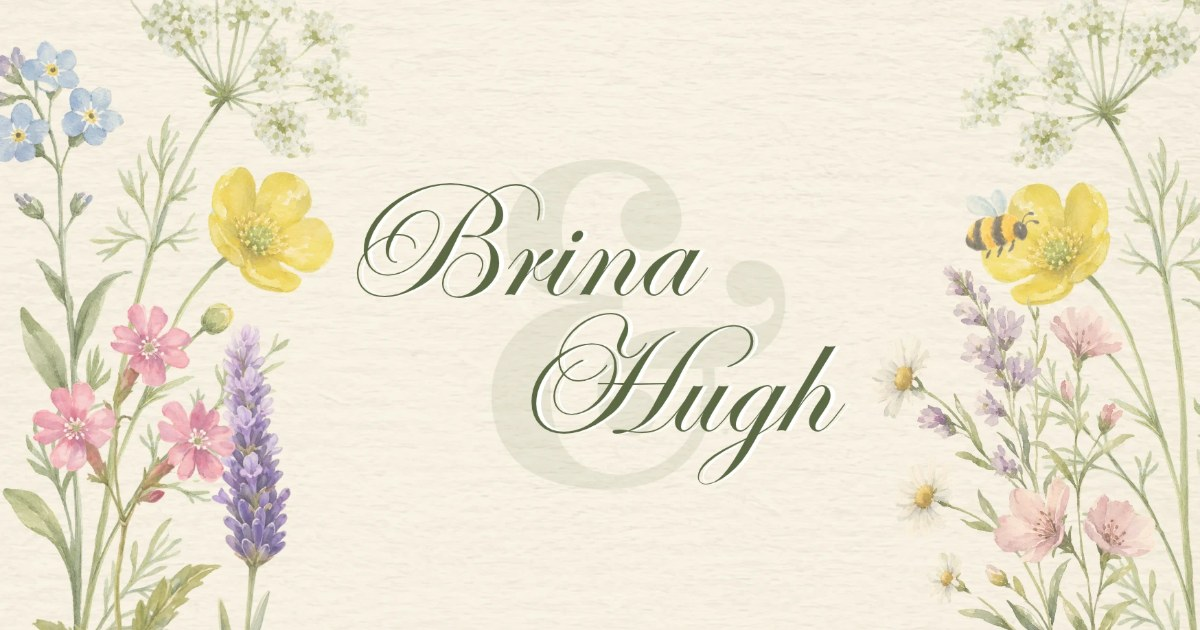
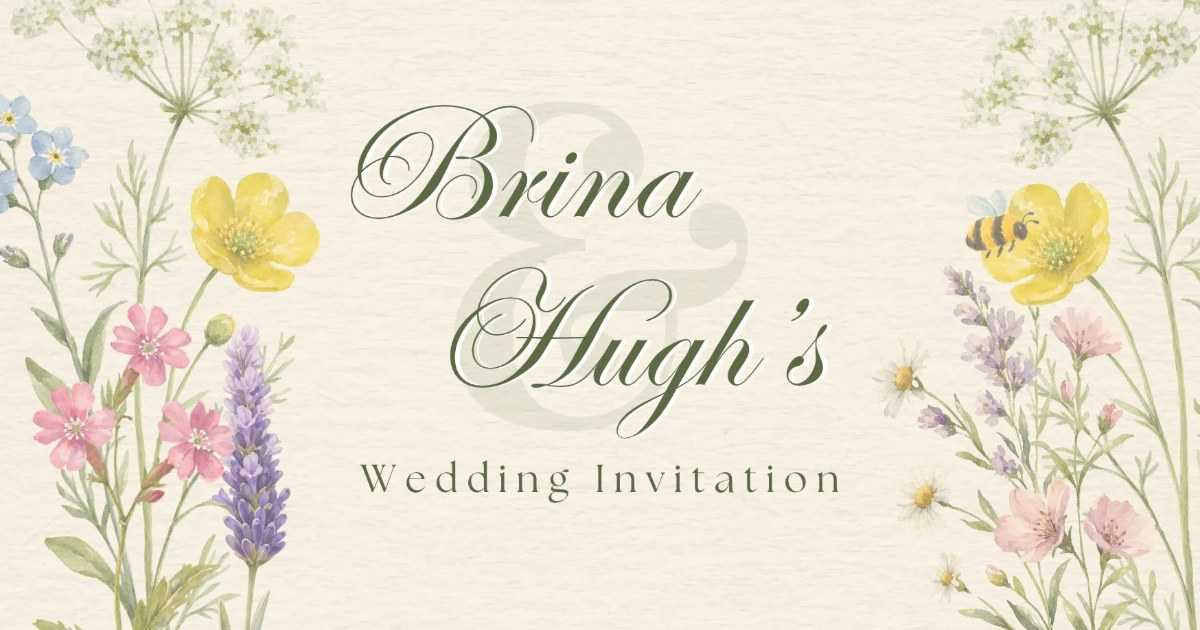
Swap the link preview card for the invitation one
Same crop as before: full width, the middle 918px band, cut to 1200x630
so the three lines and the flowers either side all survive. 140 KB.

The og:image URL carries ?v=2 now. The file name is unchanged, so an app
that had already fetched the old card would have served it again from
the same URL; the version makes it a different URL to them and forces a
refetch. The alt text follows the new wording.

Changed region(s): [[0.0, 0.0, 0.7092, 1.0]]

diff --git a/site/index.html b/site/index.html
@@ -14,11 +14,11 @@
 <meta property="og:url" content="https://brdeweese.github.io/Brina_And_Hugh-Wedding_Website/">
 <meta property="og:title" content="Brina &amp; Hugh">
 <meta property="og:description" content="The wedding of Brina &amp; Hugh, Saturday 31 July 2027, Wrights Anglers Rest, Dublin.">
-<meta property="og:image" content="https://brdeweese.github.io/Brina_And_Hugh-Wedding_Website/img/share-card.jpg">
+<meta property="og:image" content="https://brdeweese.github.io/Brina_And_Hugh-Wedding_Website/img/share-card.jpg?v=2">
 <meta property="og:image:type" content="image/jpeg">
 <meta property="og:image:width" content="1200">
 <meta property="og:image:height" content="630">
-<meta property="og:image:alt" content="Brina &amp; Hugh written in script among watercolour wildflowers">
+<meta property="og:image:alt" content="Brina &amp; Hugh’s Wedding Invitation, written in script among watercolour wildflowers">
 <meta name="twitter:card" content="summary_large_image">
 <link rel="icon" href="img/seal.webp" type="image/webp">
 <style>:root{color-scheme:light;box-sizing:border-box;padding-top:env(safe-area-inset-top,0px);padding-bottom:env(safe-area-inset-bottom,0px)}html{scroll-padding-top:env(safe-area-inset-top,0px)}body{margin:0;padding:0;font:14px -apple-system,BlinkMacSystemFont,sans-serif;background:#fff;color:#000}img{max-width:100%}[hidden]:not([hidden=until-found i]){display:none!important}</style>
